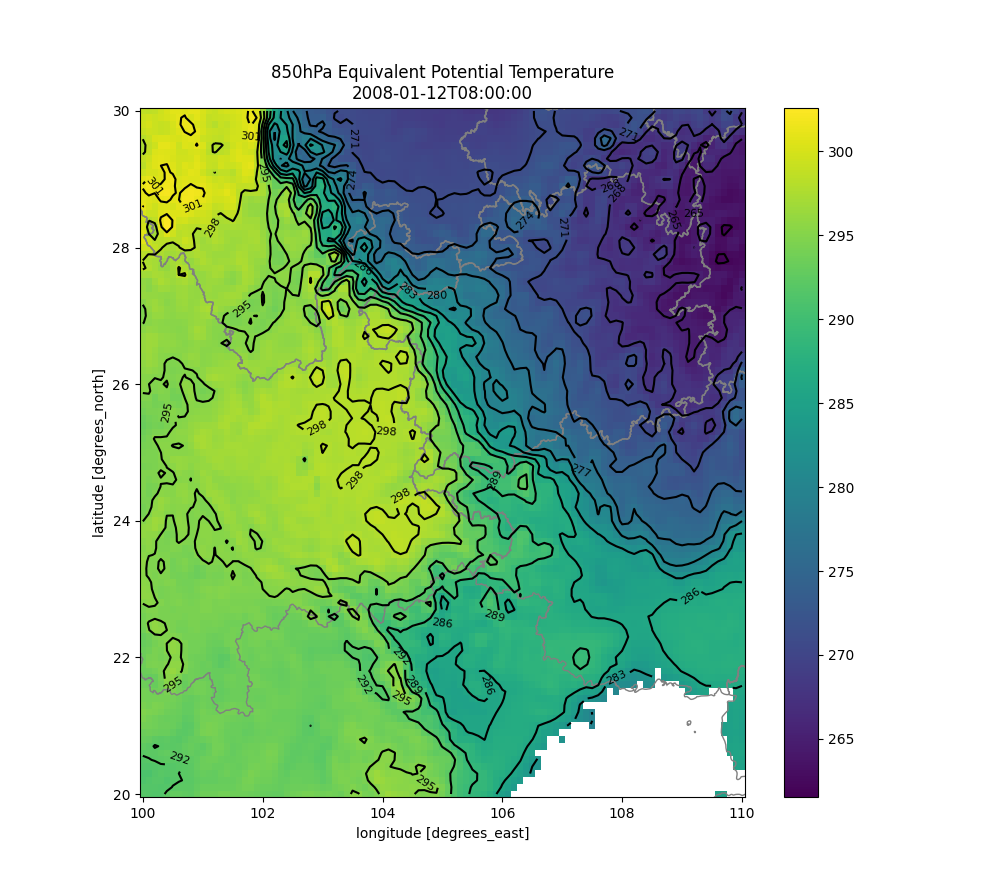
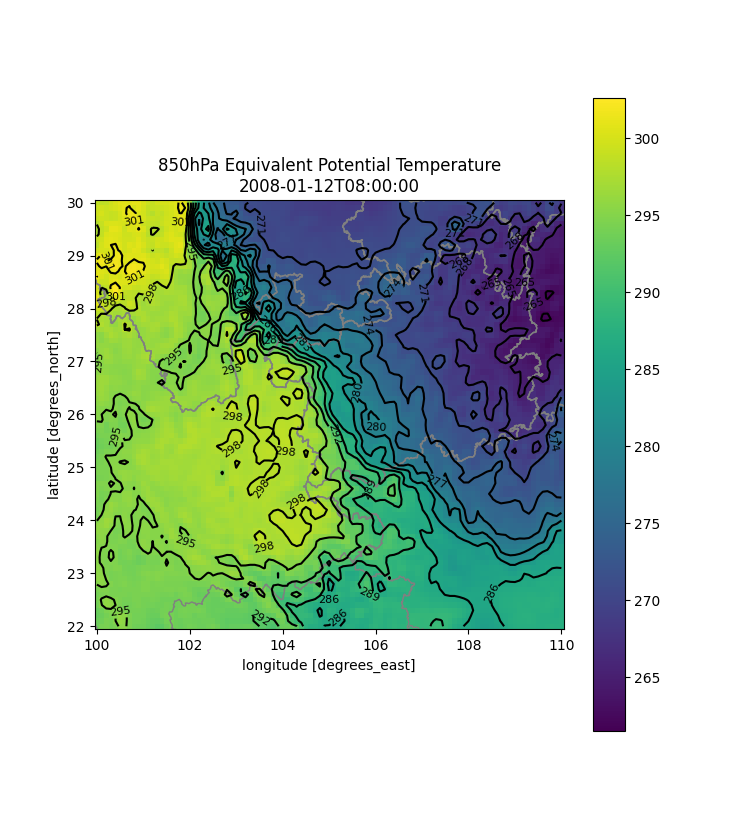
改一下图

diff --git a/Project/位温图/位温2.py b/Project/位温图/位温2.py
@@ -17,8 +17,8 @@ Rd = 287  # 干空气的特定气体常数J/(Kg·K)
 Cp = 1004  # 干空气等压比热容J/(Kg·K)
 
 # 定义区域范围
-lon_range = [95, 115]
-lat_range = [20, 35]
+lon_range = [100, 110]
+lat_range = [22, 30]
 
 # 截取指定区域的数据
 regional_data = data_at_time.where(
